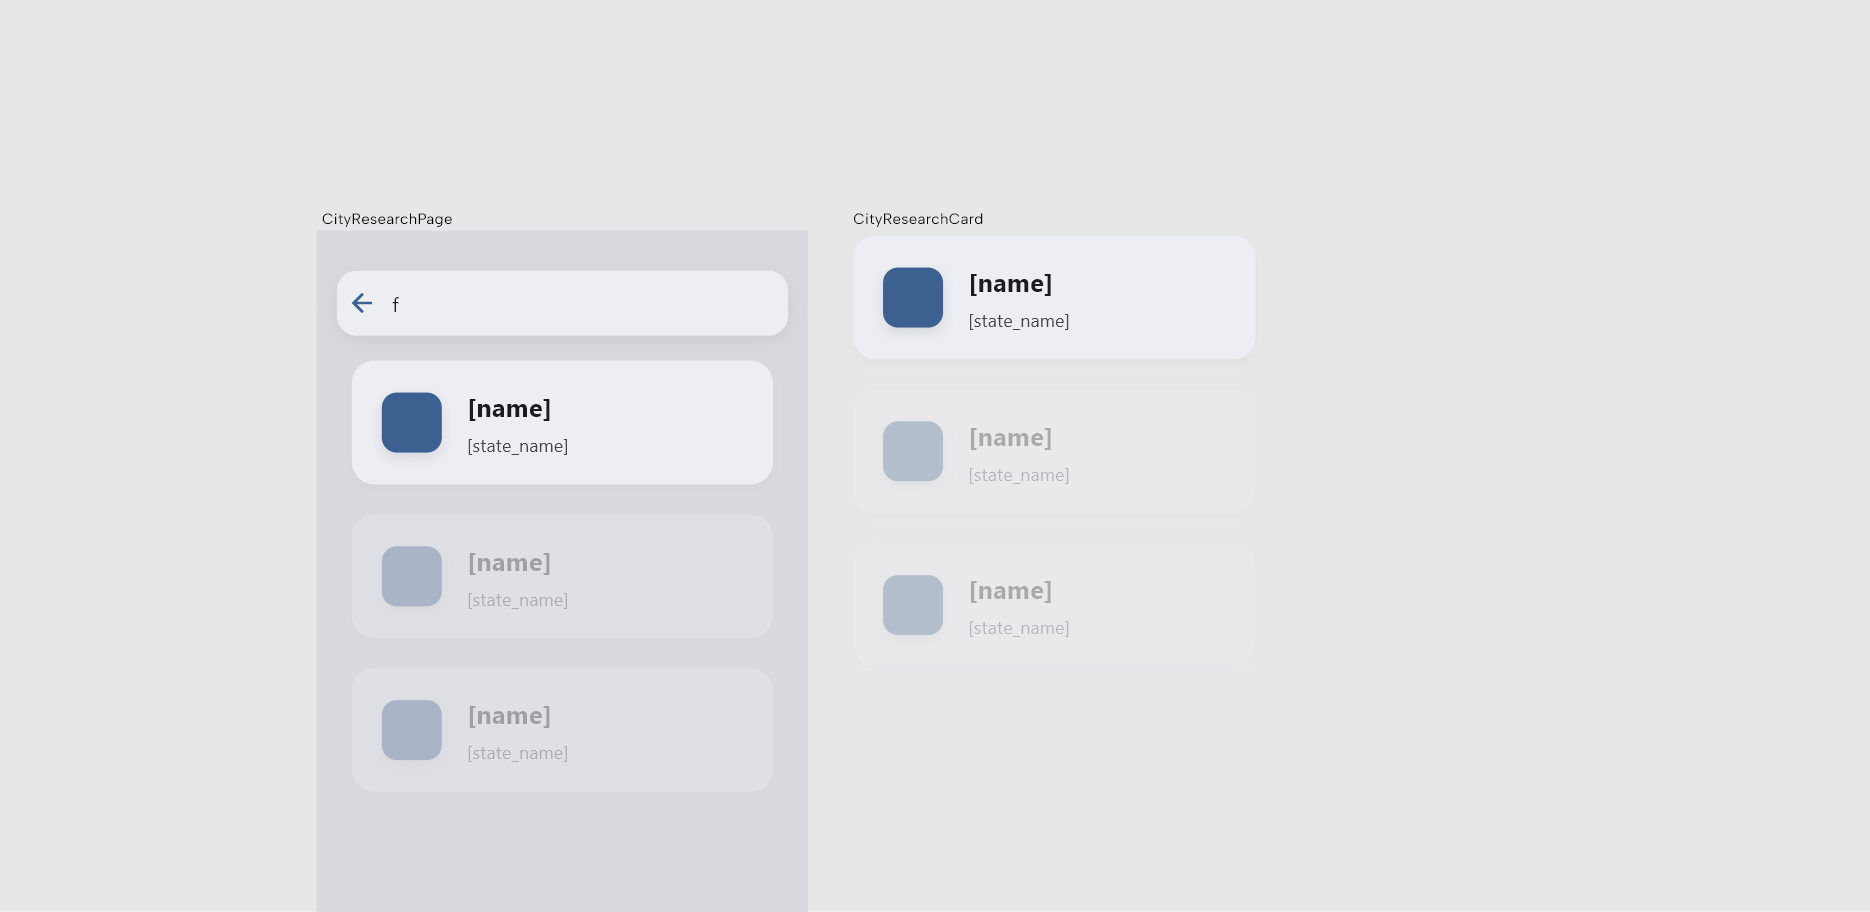
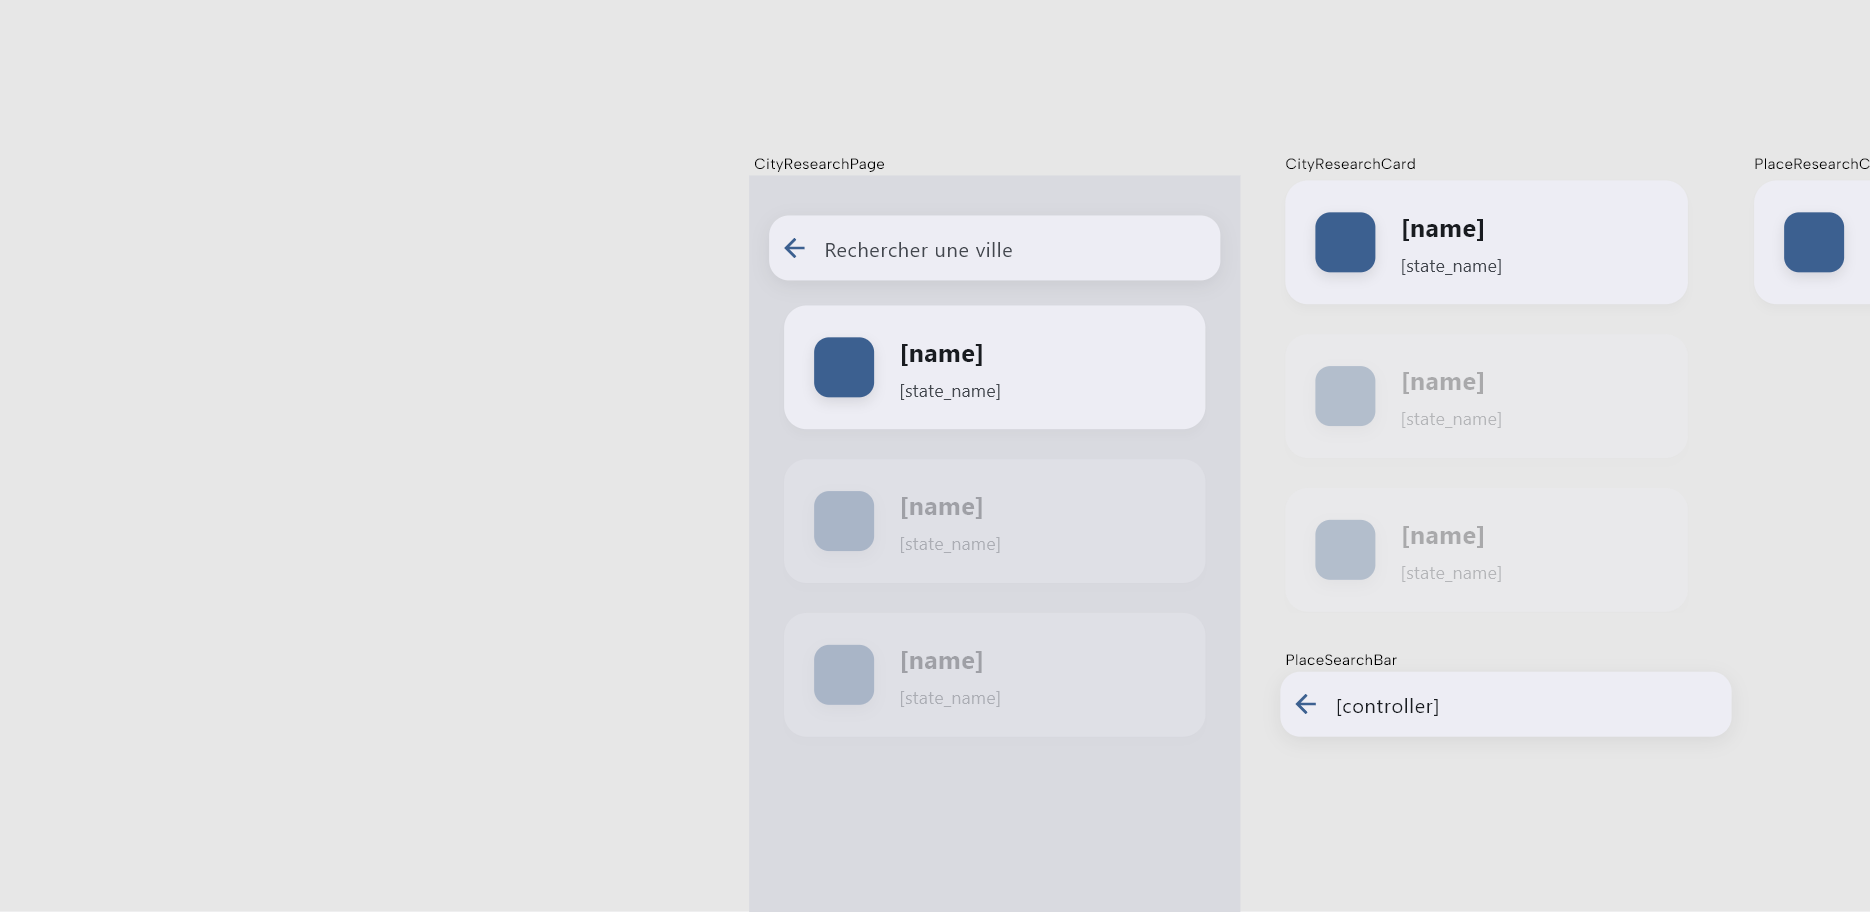
♻ Refactor CityResearch : add PlaceResearchCard and PlaceSearchBar, update CityResearchCard to use new components

diff --git a/lib/components/city_research_card.dart b/lib/components/city_research_card.dart
@@ -1,15 +1,15 @@
 import 'package:flutter/material.dart';
 import 'package:nowa_runtime/nowa_runtime.dart';
 import 'package:railmates/models/cities_model.dart';
-import 'package:flutter_svg/flutter_svg.dart';
+import 'package:railmates/components/place_research_card.dart';
 import 'package:railmates/integrations/supabase_service.dart';
 
 @NowaGenerated({'auto-width': 330.0, 'auto-height': 350.0})
 class CityResearchCard extends StatefulWidget {
   @NowaGenerated({'loader': 'auto-constructor'})
-  const CityResearchCard({this.search = '', super.key});
+  const CityResearchCard({this.prefix, super.key});
 
-  final String search;
+  final String? prefix;
 
   @override
   State<CityResearchCard> createState() {
@@ -27,82 +27,15 @@ class _CityResearchCardState extends State<CityResearchCard> {
         separatorBuilder: (context, index) => const SizedBox(height: 16.0),
         itemBuilder: (context, index) {
           final CitiesModel element = data[index];
-          return InkWell(
-            borderRadius: BorderRadius.circular(18.0),
+          return PlaceResearchCard(
+            flag: element.country_id!.flag_url!,
+            title: element.name!,
+            subtitle: element.state_name!,
             onTap: () {
               Navigator.of(context).pop<CitiesModel?>(
                 CitiesModel(id: element.id, name: element.name),
               );
             },
-            child: Card(
-              elevation: 6.0,
-              shape: RoundedRectangleBorder(
-                borderRadius: BorderRadius.circular(18.0),
-              ),
-              color: Theme.of(context).colorScheme.surfaceContainer,
-              shadowColor: Theme.of(
-                context,
-              ).colorScheme.shadow.withOpacity(0.1),
-              child: Padding(
-                padding: const EdgeInsets.symmetric(
-                  vertical: 22.0,
-                  horizontal: 24.0,
-                ),
-                child: Row(
-                  children: [
-                    FlexSizedBox(
-                      width: 48.0,
-                      height: 48.0,
-                      child: Container(
-                        decoration: BoxDecoration(
-                          color: Theme.of(context).colorScheme.primary,
-                          borderRadius: BorderRadius.circular(12.0),
-                          boxShadow: [
-                            BoxShadow(
-                              color: Theme.of(
-                                context,
-                              ).colorScheme.shadow.withOpacity(0.1),
-                              blurRadius: 8.0,
-                              offset: const Offset(0.0, 4.0),
-                            ),
-                          ],
-                        ),
-                        clipBehavior: Clip.hardEdge,
-                        child: SvgPicture(
-                          SvgNetworkLoader(element.country_id!.flag_url!),
-                          fit: BoxFit.cover,
-                        ),
-                      ),
-                    ),
-                    const SizedBox(width: 20.0),
-                    Expanded(
-                      child: Column(
-                        crossAxisAlignment: CrossAxisAlignment.start,
-                        children: [
-                          Text(
-                            element.name!,
-                            style: TextStyle(
-                              fontSize: 20.0,
-                              fontWeight: FontWeight.w700,
-                              color: Theme.of(context).colorScheme.onSurface,
-                            ),
-                          ),
-                          const SizedBox(height: 6.0),
-                          Text(
-                            element.state_name!,
-                            style: TextStyle(
-                              color: Theme.of(
-                                context,
-                              ).colorScheme.onSurfaceVariant,
-                            ),
-                          ),
-                        ],
-                      ),
-                    ),
-                  ],
-                ),
-              ),
-            ),
           );
         },
       ),
@@ -123,7 +56,7 @@ class _CityResearchCardState extends State<CityResearchCard> {
           ),
         ),
       ),
-      future: SupabaseService().getAllCities(widget.search),
+      future: SupabaseService().getAllCities(widget.prefix!),
     );
   }
 }

diff --git a/lib/pages/city_research_page.dart b/lib/pages/city_research_page.dart
@@ -1,6 +1,6 @@
 import 'package:flutter/material.dart';
-import 'dart:async';
 import 'package:nowa_runtime/nowa_runtime.dart';
+import 'package:railmates/components/place_search_bar.dart';
 import 'package:railmates/components/city_research_card.dart';
 
 @NowaGenerated({'auto-height': 808.0, 'auto-width': 393.0})
@@ -16,24 +16,7 @@ class CityResearchPage extends StatefulWidget {
 
 @NowaGenerated()
 class _CityResearchPageState extends State<CityResearchPage> {
-  TextEditingController searchPrefixController = TextEditingController(
-    text: 'f',
-  );
-
-  Timer? _debounce;
-
-  @override
-  void initState() {
-    super.initState();
-    searchPrefixController.text = '';
-  }
-
-  @override
-  void dispose() {
-    _debounce?.cancel();
-    searchPrefixController.dispose();
-    super.dispose();
-  }
+  TextEditingController? SearchBarController = TextEditingController();
 
   @override
   Widget build(BuildContext context) {
@@ -47,47 +30,11 @@ class _CityResearchPageState extends State<CityResearchPage> {
           children: [
             FlexSizedBox(
               width: double.infinity,
-              child: Container(
-                decoration: BoxDecoration(
-                  color: Theme.of(context).colorScheme.surfaceContainer,
-                  borderRadius: BorderRadius.circular(16.0),
-                  boxShadow: [
-                    BoxShadow(
-                      color: Theme.of(
-                        context,
-                      ).colorScheme.shadow.withOpacity(0.07),
-                      blurRadius: 12.0,
-                      offset: const Offset(0.0, 4.0),
-                    ),
-                  ],
-                ),
-                child: TextFormField(
-                  controller: searchPrefixController,
-                  onChanged: (value) {
-                    if (!(_debounce?.isActive ?? false)) {
-                      _debounce = Timer(const Duration(milliseconds: 300), () {
-                        if (mounted) {
-                          setState(() {});
-                        }
-                      });
-                    }
-                  },
-                  decoration: InputDecoration(
-                    prefixIcon: IconButton(
-                      icon: Icon(
-                        Icons.arrow_back,
-                        color: Theme.of(context).colorScheme.primary,
-                      ),
-                      onPressed: () => Navigator.of(context).pop(),
-                    ),
-                    contentPadding: const EdgeInsets.symmetric(
-                      vertical: 18.0,
-                      horizontal: 10.0,
-                    ),
-                    hintText: 'Rechercher une ville',
-                    border: InputBorder.none,
-                  ),
-                ),
+              child: PlaceSearchBar(
+                controller: SearchBarController,
+                onChange: (value) {
+                  setState(() {});
+                },
               ),
             ),
             FlexSizedBox(
@@ -98,7 +45,7 @@ class _CityResearchPageState extends State<CityResearchPage> {
                   vertical: 16.0,
                   horizontal: 8.0,
                 ),
-                child: CityResearchCard(search: searchPrefixController.text),
+                child: CityResearchCard(prefix: SearchBarController?.text),
               ),
             ),
           ],

diff --git a/lib/components/place_research_card.dart b/lib/components/place_research_card.dart
@@ -1,0 +1,90 @@
+import 'package:flutter/material.dart';
+import 'package:nowa_runtime/nowa_runtime.dart';
+import 'package:flutter_svg/flutter_svg.dart';
+
+@NowaGenerated({'auto-width': 330.0, 'auto-height': 107.0})
+class PlaceResearchCard extends StatelessWidget {
+  @NowaGenerated({'loader': 'auto-constructor'})
+  const PlaceResearchCard({
+    this.flag = '',
+    this.title = '',
+    this.subtitle = '',
+    this.onTap,
+    super.key,
+  });
+
+  final String flag;
+
+  final String title;
+
+  final String subtitle;
+
+  final void Function()? onTap;
+
+  @override
+  Widget build(BuildContext context) {
+    return InkWell(
+      borderRadius: BorderRadius.circular(18.0),
+      onTap: onTap,
+      child: Card(
+        elevation: 6.0,
+        shape: RoundedRectangleBorder(
+          borderRadius: BorderRadius.circular(18.0),
+        ),
+        color: Theme.of(context).colorScheme.surfaceContainer,
+        shadowColor: Theme.of(context).colorScheme.shadow.withOpacity(0.1),
+        child: Padding(
+          padding: const EdgeInsets.symmetric(vertical: 22.0, horizontal: 24.0),
+          child: Row(
+            children: [
+              FlexSizedBox(
+                width: 48.0,
+                height: 48.0,
+                child: Container(
+                  decoration: BoxDecoration(
+                    color: Theme.of(context).colorScheme.primary,
+                    borderRadius: BorderRadius.circular(12.0),
+                    boxShadow: [
+                      BoxShadow(
+                        color: Theme.of(
+                          context,
+                        ).colorScheme.shadow.withOpacity(0.1),
+                        blurRadius: 8.0,
+                        offset: const Offset(0.0, 4.0),
+                      ),
+                    ],
+                  ),
+                  clipBehavior: Clip.hardEdge,
+                  child: SvgPicture(SvgNetworkLoader(flag), fit: BoxFit.cover),
+                ),
+              ),
+              const SizedBox(width: 20.0),
+              Expanded(
+                child: Column(
+                  crossAxisAlignment: CrossAxisAlignment.start,
+                  children: [
+                    Text(
+                      title,
+                      style: TextStyle(
+                        fontSize: 20.0,
+                        fontWeight: FontWeight.w700,
+                        color: Theme.of(context).colorScheme.onSurface,
+                      ),
+                    ),
+                    const SizedBox(height: 6.0),
+                    Text(
+                      subtitle,
+                      style: TextStyle(
+                        color: Theme.of(context).colorScheme.onSurfaceVariant,
+                      ),
+                    ),
+                  ],
+                ),
+              ),
+            ],
+          ),
+        ),
+      ),
+    );
+  }
+}

diff --git a/lib/components/place_search_bar.dart b/lib/components/place_search_bar.dart
@@ -1,0 +1,66 @@
+import 'package:flutter/material.dart';
+import 'dart:async';
+import 'package:nowa_runtime/nowa_runtime.dart';
+
+@NowaGenerated({'auto-width': 361.0, 'auto-height': 52.0})
+class PlaceSearchBar extends StatefulWidget {
+  @NowaGenerated({'loader': 'auto-constructor'})
+  const PlaceSearchBar({this.controller, this.onChange, super.key});
+
+  final TextEditingController? controller;
+
+  final void Function(String value)? onChange;
+
+  @override
+  State<PlaceSearchBar> createState() {
+    return _PlaceSearchBarState();
+  }
+}
+
+@NowaGenerated()
+class _PlaceSearchBarState extends State<PlaceSearchBar> {
+  Timer? _debounce;
+
+  @override
+  Widget build(BuildContext context) {
+    return Container(
+      decoration: BoxDecoration(
+        color: Theme.of(context).colorScheme.surfaceContainer,
+        borderRadius: BorderRadius.circular(16.0),
+        boxShadow: [
+          BoxShadow(
+            color: Theme.of(context).colorScheme.shadow.withOpacity(0.07),
+            blurRadius: 12.0,
+            offset: const Offset(0.0, 4.0),
+          ),
+        ],
+      ),
+      child: TextFormField(
+        controller: widget.controller,
+        onChanged: (value) {
+          if (!(_debounce?.isActive ?? false)) {
+            _debounce = Timer(const Duration(milliseconds: 400), () {
+              widget.onChange?.call(value);
+            });
+          }
+        },
+        decoration: InputDecoration(
+          prefixIcon: IconButton(
+            icon: Icon(
+              Icons.arrow_back,
+              color: Theme.of(context).colorScheme.primary,
+            ),
+            onPressed: () => Navigator.of(context).pop(),
+          ),
+          contentPadding: const EdgeInsets.symmetric(
+            vertical: 18.0,
+            horizontal: 10.0,
+          ),
+          hintText: 'Rechercher une ville',
+          border: InputBorder.none,
+        ),
+        autofocus: true,
+      ),
+    );
+  }
+}
